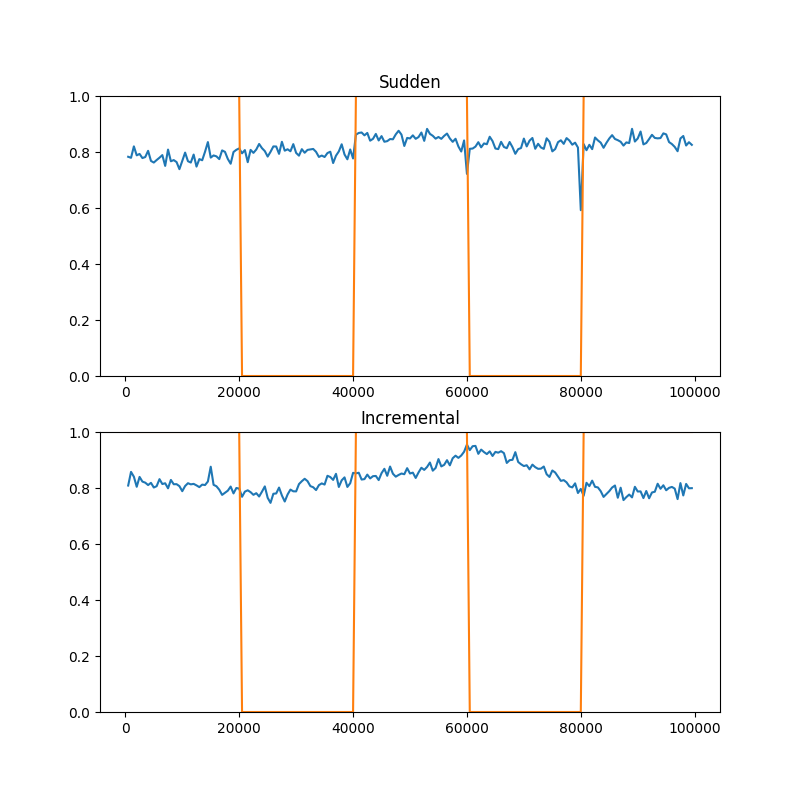
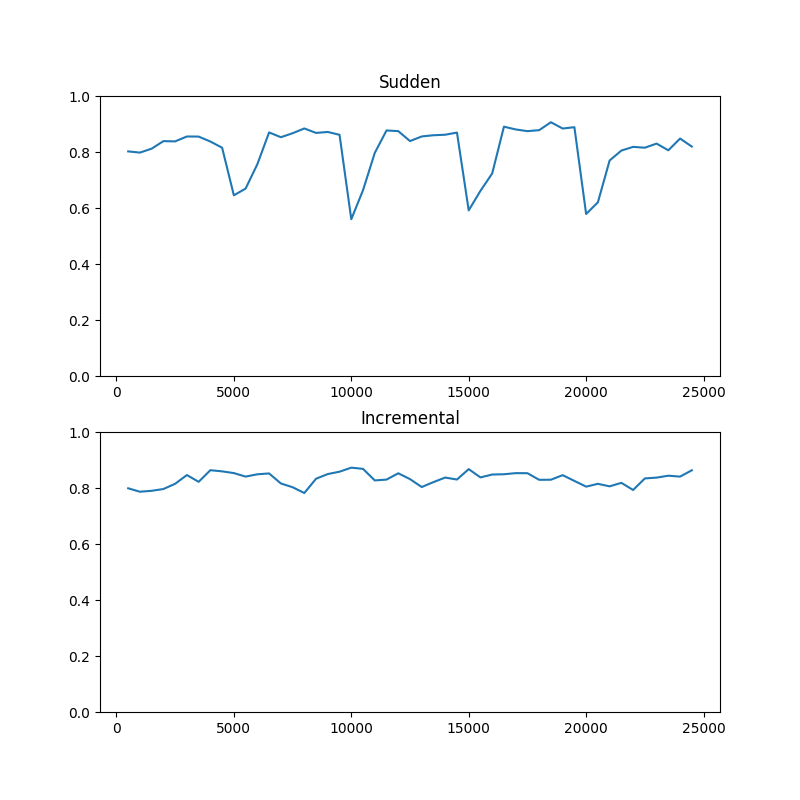
Random state

diff --git a/StreamGenerator.py b/StreamGenerator.py
@@ -1,6 +1,5 @@
 from sklearn.datasets import make_classification
 import numpy as np
-import matplotlib.pyplot as plt
 
 DRIFT_TYPES = ("sudden", "incremental")
 
@@ -13,27 +12,38 @@ class StreamGenerator:
         n_features=8,
         distribution=[0.5, 0.5],
         n_drifts=4,
-        drift="incremental",
+        drift_type="incremental",
+        random_state=None,
     ):
+        # Store stream parameters
         self.chunk_size = chunk_size
         self.n_chunks = n_chunks
-        self.distribution = distribution
-        self.n_features = n_features
         self.n_drifts = n_drifts
-        self.drift = drift
-        self.n_classes = len(self.distribution)
-        self.is_dry = False
-        self.is_prepared = False
-
         self.stream_length = self.chunk_size * self.n_chunks
+
+        # Store concept parameters
+        self.random_state = random_state
         self.n_concepts = self.n_drifts + 2
-        self.instances_generated = 0
-        self.chunks_generated = 0
+        self.distribution = distribution
+        self.classes = np.array(range(len(self.distribution)))
+        self.n_features = n_features
+        self.drift_type = drift_type
+        self.n_classes = len(self.distribution)
         self.samples_per_concept = int(self.stream_length / (self.n_concepts - 1))
 
-        self.classes = np.array([0, 1])
+        # Calculate processing variables
+        self.reset()
+        self.is_prepared = False
+
+    def reset(self):
+        self.is_dry = False
+        self.chunks_generated = 0
+        self.concept_usages = np.zeros(self.n_concepts).astype(int)
 
     def prepare(self):
+        # Prepare random state
+        np.random.seed(self.random_state)
+
         # Prepare concepts
         self.concepts = [
             make_classification(
@@ -46,7 +56,6 @@ class StreamGenerator:
             )
             for i in range(self.n_concepts)
         ]
-        self.concept_usages = np.zeros(self.n_concepts).astype(int)
 
         # Establish dominant concept for every chunk
         self.concept_dominances = np.linspace(
@@ -54,9 +63,9 @@ class StreamGenerator:
         ).astype(int)[:-1]
 
         # Prepare usage curves
-        if self.drift == "incremental":
+        if self.drift_type == "incremental":
             # Incremental drift
-            self.a = np.round(
+            self.usage_curve = np.round(
                 np.abs(
                     (
                         np.cos(
@@ -70,17 +79,10 @@ class StreamGenerator:
                 )
             ).astype(int)[:-1]
 
-        if self.drift == "sudden":
-            self.a = (self.concept_dominances * self.chunk_size) % (self.chunk_size * 2)
-
-        # print(self.a)
-        # print(self.b)
-        # print(np.unique(self.b, return_counts=True))
-        # print(self.n_concepts)
-
-        # plt.plot(self.a)
-        # plt.plot(self.b * 100)
-        # plt.savefig("foo.png")
+        elif self.drift_type == "sudden":
+            self.usage_curve = (self.concept_dominances * self.chunk_size) % (
+                self.chunk_size * 2
+            )
 
     def get_chunk(self):
         if not self.is_prepared:
@@ -90,10 +92,10 @@ class StreamGenerator:
         dominant = self.concept_dominances[self.chunks_generated]
         first, second = (dominant, dominant + 1)
 
-        if self.drift == "sudden":
+        if self.drift_type == "sudden":
             if dominant % 2 == 0:
                 first, second = (dominant + 1, dominant)
-        amount = self.a[self.chunks_generated]
+        amount = self.usage_curve[self.chunks_generated]
 
         proportion = np.array([amount, self.chunk_size - amount])
 
@@ -101,8 +103,6 @@ class StreamGenerator:
 
         self.concept_usages[[first, second]] += proportion
         address_b = self.concept_usages[[first, second]]
-
-        # print(address_a, address_b)
 
         X = np.append(
             self.concepts[first][0][address_a[0] : address_b[0]],
@@ -114,22 +114,6 @@ class StreamGenerator:
             self.concepts[second][1][address_a[1] : address_b[1]],
             axis=0,
         )
-
-        """
-        # print(X.shape, y.shape)
-        # print(y)
-
-        print(
-            "Chunk",
-            self.chunks_generated,
-            proportion,
-            first,
-            second,
-            self.concept_usages,
-            np.sum(self.concept_usages),
-            self.concepts[0][0].shape,
-        )
-        """
 
         self.chunks_generated += 1
         if self.chunks_generated == self.n_chunks:

diff --git a/Method.py b/Method.py
@@ -10,7 +10,8 @@ from sklearn import neighbors
 from sklearn.metrics import f1_score
 import numpy as np
 
-class DumbDelayPool(BaseEstimator, ClassifierMixin):
+
+class Method(BaseEstimator, ClassifierMixin):
     """
     DumbDelayPool.
 
@@ -23,7 +24,7 @@ class DumbDelayPool(BaseEstimator, ClassifierMixin):
 
     """
 
-    def __init__(self, ensemble_size=20):
+    def __init__(self, ensemble_size=5):
         """Initialization."""
         self.ensemble_size = ensemble_size
 
@@ -34,7 +35,7 @@ class DumbDelayPool(BaseEstimator, ClassifierMixin):
     # Fitting
     def fit(self, X, y):
         """Fitting."""
-        if not hasattr(self, '_base_clf'):
+        if not hasattr(self, "_base_clf"):
             self.set_base_clf()
 
         X, y = check_X_y(X, y)
@@ -51,7 +52,7 @@ class DumbDelayPool(BaseEstimator, ClassifierMixin):
 
     def partial_fit(self, X, y, classes=None):
         """Partial fitting."""
-        if not hasattr(self, '_base_clf'):
+        if not hasattr(self, "_base_clf"):
             self.set_base_clf()
         X, y = check_X_y(X, y)
         self.X_ = X
@@ -88,13 +89,15 @@ class DumbDelayPool(BaseEstimator, ClassifierMixin):
 
     def previous_decision_matrix(self):
         """Ensemble decision matrix for the previous chunk"""
-        return np.array([member_clf.predict(self.previous_X)
-                         for member_clf in self.ensemble_])
+        return np.array(
+            [member_clf.predict(self.previous_X) for member_clf in self.ensemble_]
+        )
 
     def manhattan_distance(self, X):
         """Manhattan distance from each new instance to the previous chunk instances"""
-        return np.array([np.sum(np.absolute(self.previous_X - instance), axis=1)
-                         for instance in X])
+        return np.array(
+            [np.sum(np.absolute(self.previous_X - instance), axis=1) for instance in X]
+        )
 
     def region_of_competence(self, manhattan_distance_matrix, n_neighbors=5):
         """ Region of competence based on Manhattan
@@ -103,14 +106,12 @@ class DumbDelayPool(BaseEstimator, ClassifierMixin):
 
     def ensemble_support_matrix(self, X):
         """ESM."""
-        return np.array([member_clf.predict_proba(X)
-                         for member_clf in self.ensemble_])
+        return np.array([member_clf.predict_proba(X) for member_clf in self.ensemble_])
 
     def predict_proba(self, X):
         """Aposteriori probabilities."""
         # Check is fit had been called
-        check_is_fitted(self, 'classes_')
-
+        check_is_fitted(self, "classes_")
 
         # Acumulate supports
         esm = self.ensemble_support_matrix(X)
@@ -120,12 +121,12 @@ class DumbDelayPool(BaseEstimator, ClassifierMixin):
     def predict(self, X):
         """Hard decision."""
         # Check is fit had been called
-        check_is_fitted(self, 'classes_')
+        check_is_fitted(self, "classes_")
 
         # Input validation
         X = check_array(X)
         if X.shape[1] != self.X_.shape[1]:
-            raise ValueError('number of features does not match')
+            raise ValueError("number of features does not match")
 
         supports = self.predict_proba(X)
         prediction = np.argmax(supports, axis=1)

diff --git a/experiment.py b/experiment.py
@@ -1,12 +1,19 @@
-from DumbDelayPool import DumbDelayPool
+from Method import Method
 from TestAndTrain import TestAndTrain
 from StreamGenerator import StreamGenerator
 import matplotlib.pyplot as plt
 
+d = [0.3, 0.7]
 streams = {
-    "Sudden": StreamGenerator(n_features=4, drift="sudden", distribution=[0.3, 0.7]),
+    "Sudden": StreamGenerator(
+        n_features=4, drift_type="sudden", distribution=d, n_chunks=50, random_state=0
+    ),
     "Incremental": StreamGenerator(
-        n_features=4, drift="incremental", distribution=[0.3, 0.7]
+        n_features=4,
+        drift_type="incremental",
+        distribution=d,
+        n_chunks=50,
+        random_state=0,
     ),
 }
 
@@ -14,14 +21,19 @@ fig, ax = plt.subplots(2, 1, figsize=(8, 8))
 
 for i, stream_n in enumerate(streams):
     stream = streams[stream_n]
-    clf = DumbDelayPool(ensemble_size=5)
+    clf = Method(ensemble_size=5)
     learner = TestAndTrain(stream, clf)
     learner.run()
 
     # Wyrysuj i zapisz
     ax[i].plot(learner.score_points, learner.scores)
-    ax[i].plot(learner.score_points, (stream.concept_dominances % 2 == 0)[:-1])
     ax[i].set_ylim((0, 1))
     ax[i].set_title(stream_n)
+    # ax[i].plot(learner.score_points, (stream.concept_dominances % 2 == 0)[:-1])
+    # ax[i].plot(learner.score_points, stream.usage_curve[:-1] / stream.chunk_size)
+
+    print(stream.concept_usages)
+
+    stream.reset()
 
 plt.savefig("foo.png")
